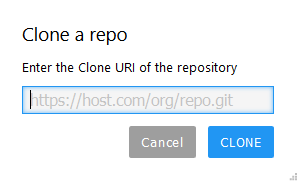
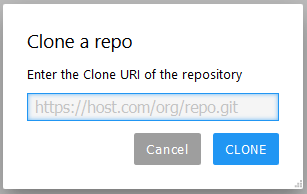
update print screen imgs for git lesson

diff --git a/source/lessons/L2/git-basics.rst b/source/lessons/L2/git-basics.rst
@@ -175,19 +175,19 @@ On the command line the syntax for committing is ``git commit -m "commit message
 Push changes to GitHub
 ~~~~~~~~~~~~~~~~~~~~~~
 Next, we want to synchronize our local changes with the remote repository on GitHub.
-First, it's good to use :code:`git pull` to double check for remote changes before contributing your own changes.
 
-.. figure:: img/git-plugin-pull.png
+.. figure:: img/git-plugin-pull-push-buttons.png
 
+    Buttons for Pulling and Pushing changes between the local and remote repositories
+
+First, it's good to use :code:`git pull` (button with arrow down) to double check for remote changes before contributing your own changes.
 Unless you cached your credentials, Git will once more prompt you for username and password at this point.
 
 .. figure:: img/git-plugin-pull-ok.png
 
 In this case, the repository is probably up-to-date and no new changes are downloaded. However, it is good practice to always use Git Pull before publishing your local changes in case someone made changes in the remote repository in the meanwhile!
 
-Now we are ready to push the local changes to GitHub using :code:`git push`:
-
-.. figure:: img/git-plugin-push.png
+Now we are ready to push the local changes to GitHub using :code:`git push` (button with arrow up):
 
 .. figure:: img/git-plugin-push-ok.png
 
@@ -200,8 +200,10 @@ That's all you need to know about Git for know :)
 
 Using Git from the command line
 -------------------------------
-
 There are many different ways of using git, and you might want to try out using Git from the command line at some point.
+
+Terminal
+~~~~~~~~~~
 
 .. note::
     You will need to know a couple of basic command line commands in order to use Git from the command line. Code Academy's `list of command line commands <https://www.codecademy.com/articles/command-line-commands>`__ provides
@@ -221,7 +223,7 @@ There are many different ways of using git, and you might want to try out using 
 
 .. code-block:: bash
 
-    $ git --version
+    git --version
 
 Anything above version 2 is just fine.
 
@@ -229,15 +231,20 @@ Anything above version 2 is just fine.
 
     You can paste text on the terminal using :code:`Ctrl + V` or :code:`Shift + Right Click --> paste`
 
-.. admonition:: Configuring Git credentials on the command line
+Configuring Git credentials
+~~~~~~~~~~~~~~~~~~~~~~~~~~
 
-    Configure Git to remember your identity using the ``git config`` tools. You (hopefully) only need to do this once
-    if working on your own computer, or a cloud computer with persistent storage.
+Configure Git to remember your identity using the ``git config`` tools. You (hopefully) only need to do this once
+if working on your own computer, or on a cloud computer with persistent storage on CSC notebooks.
 
-    ``git config --global user.name "[firstname lastname]"``
+.. code-block:: bash
 
-    ``git config --global user.email "[email@example.com]"``
+    git config --global user.name "[firstname lastname]"
+    git config --global user.email "[email@example.com]"
 
+
+Basic commands
+~~~~~~~~~~~~~~~~~
 The basic workflow of cloning a repository, adding changes to the staging area, committing and pushing the changes can be completed using these command line commands:
 
 - ``git clone [url]`` - retrieve a repository from a remote location (often from GitHub)
@@ -249,11 +256,12 @@ The basic workflow of cloning a repository, adding changes to the staging area, 
 
 .. note::
 
+    Remember to use ``git status`` often to check the status of our repository.
+
+.. admonition:: Other useful Git commands
+
     Check out other commonly used git commands from `the GIT CHEAT SHEET <https://education.github.com/git-cheat-sheet-education.pdf>`__
 
-.. note::
-
-    Remember to use ``git status`` often to check the status of our repository.
 
 .. admonition:: Remote repository
 
@@ -264,6 +272,13 @@ The basic workflow of cloning a repository, adding changes to the staging area, 
     **A common mistake during this course is that you have accidentally cloned the template repository in stead of your own/your teams repository.**
 
     You can read more about managing remotes `in here <https://git-scm.com/book/en/v2/Git-Basics-Working-with-Remotes>`__.
+
+
+.. admonition:: Master branch
+
+    **Branches and branching** are powerful features in Git that allow maintaining parallel versions of the same project.
+    During this course you don't need to worry too much about branches. However, it is good to understand that **we are working on the master branch of our repository**. For example, when using the ``git push`` command,
+    the full syntax is ``git push origin master`` which means that we are pushing the changes to the master branch of the remote repository called origin. Read more about git branches `in here <https://git-scm.com/docs/git-branch>`__.
 
 
 What to do case of conflicts?
